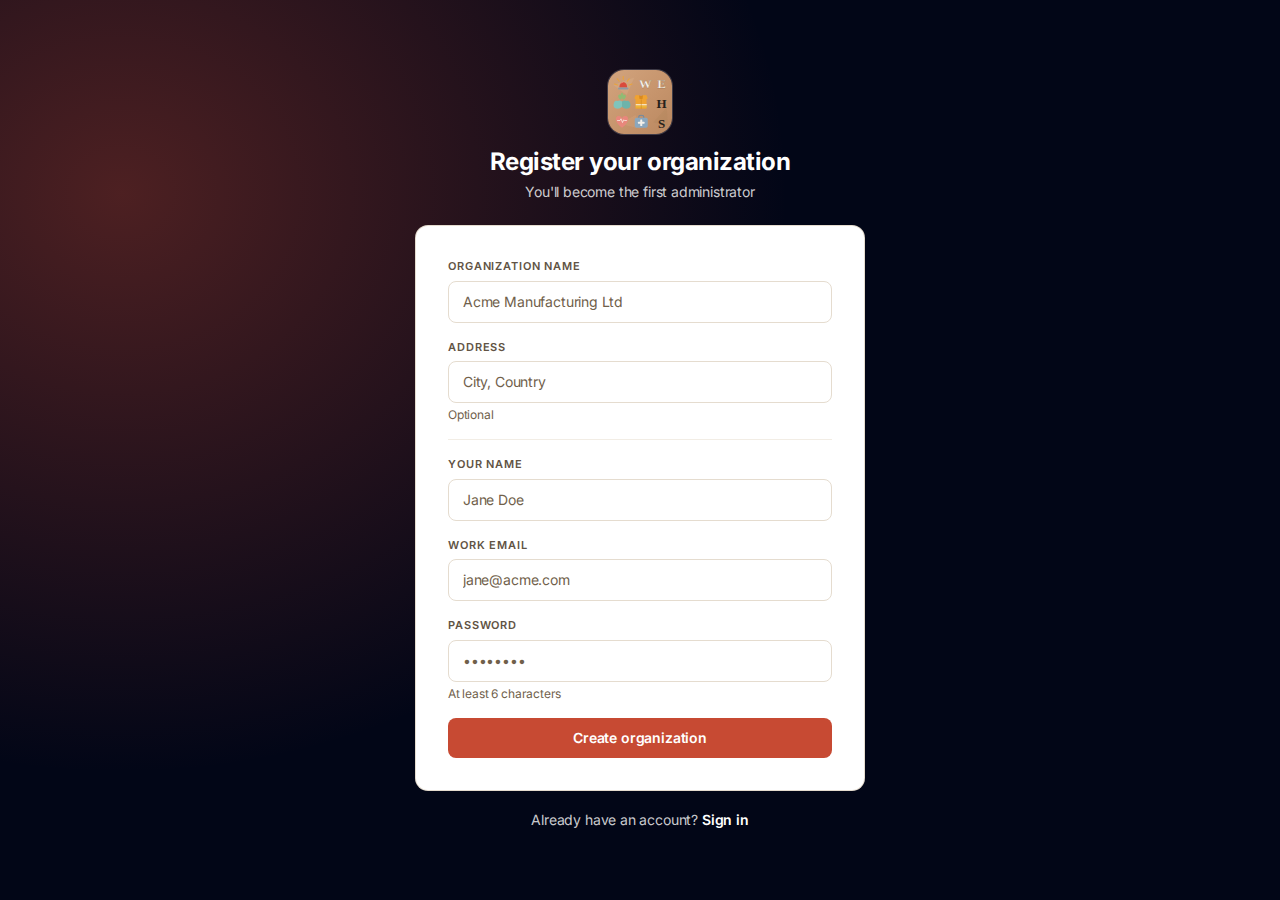
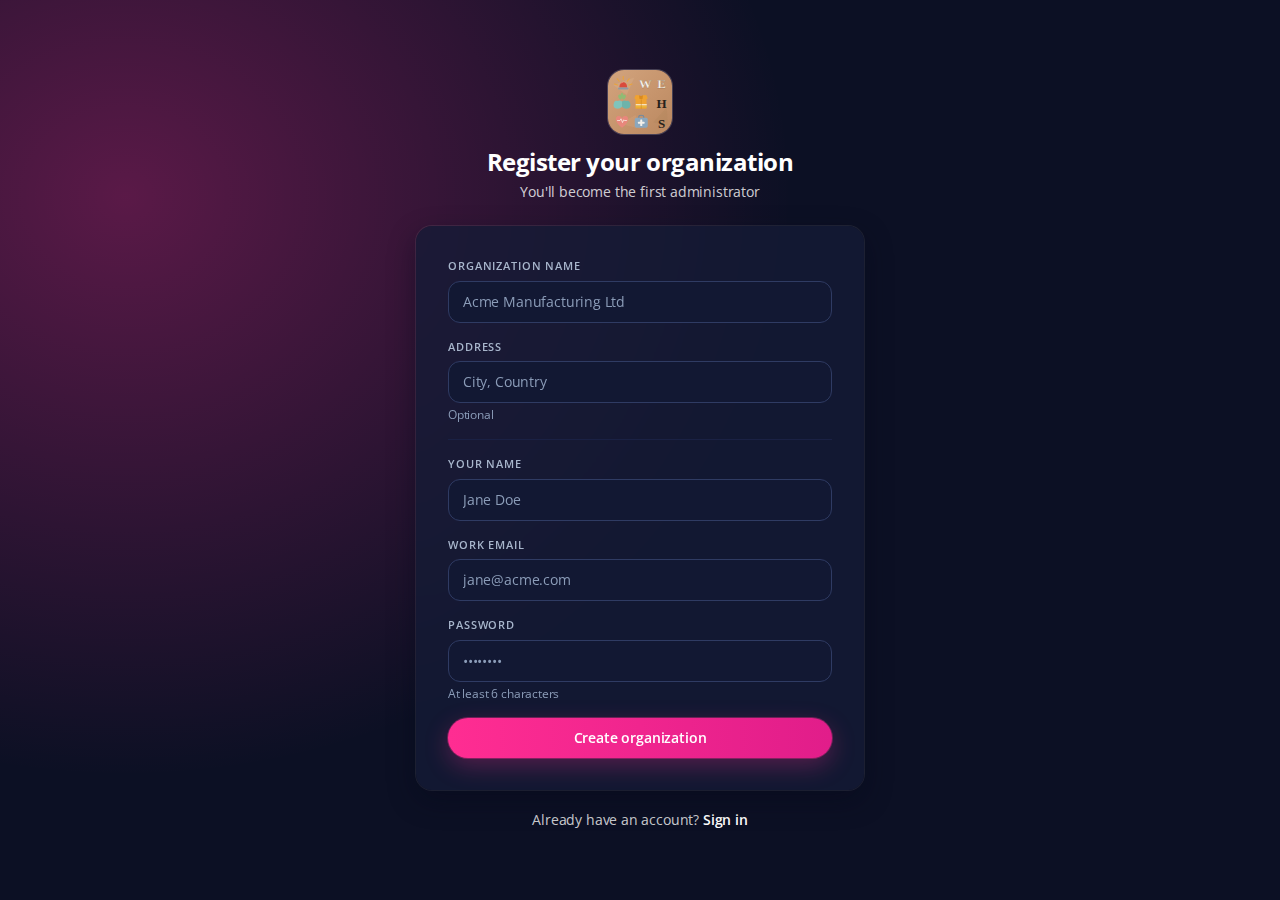
Pin neon kit chrome and refresh UI previews
Hard-code body type and primary-button fills so a stale Tailwind compile
cannot leave kraft-brown text or a transparent CTA. Recapture auth,
404, and document-template previews against the navy glass kit.

diff --git a/src/index.css b/src/index.css
@@ -34,11 +34,13 @@
 }
 
 body {
-  @apply text-ink-900 font-sans antialiased;
+  color: #f4f7ff;
+  font-family: 'Open Sans', system-ui, 'Segoe UI', sans-serif;
   background-color: #0c1024;
   margin: 0;
   overflow-wrap: break-word;
   letter-spacing: -0.011em;
+  -webkit-font-smoothing: antialiased;
 }
 
 /* Auth / public pages — navy with cyan and magenta blooms, matching the kit. */
@@ -111,10 +113,12 @@ body {
   }
   .btn-primary {
     @apply btn text-white;
+    background-color: #ff2d92;
     background-image: linear-gradient(90deg, #ff2d92 0%, #e11d8a 100%);
     box-shadow: theme('boxShadow.elev-brand');
   }
   .btn-primary:hover {
+    background-color: #ff4da6;
     background-image: linear-gradient(90deg, #ff4da6 0%, #ff2d92 100%);
   }
   .btn-ghost {
